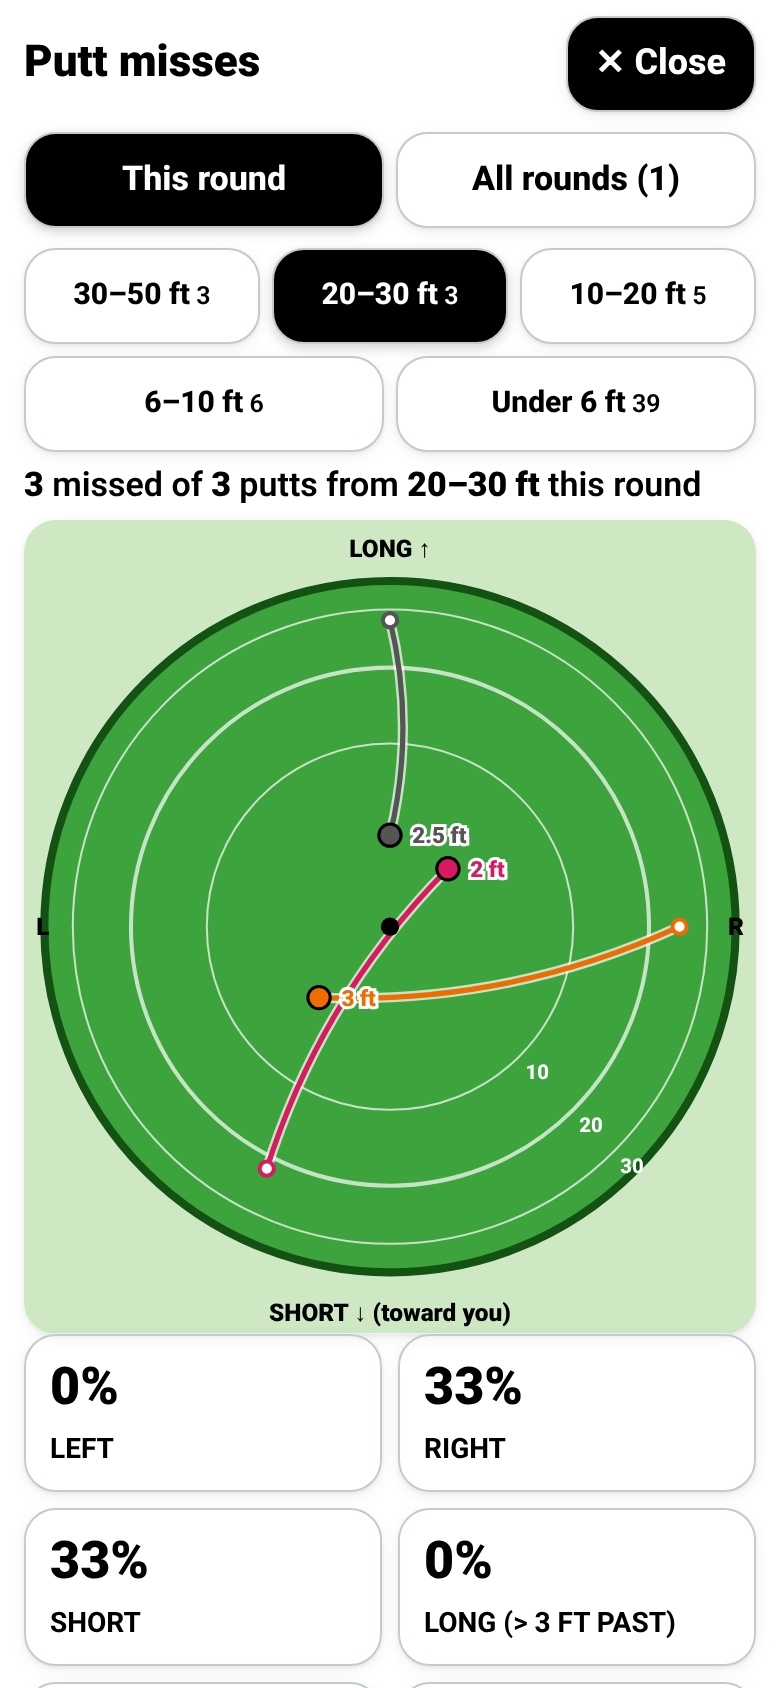
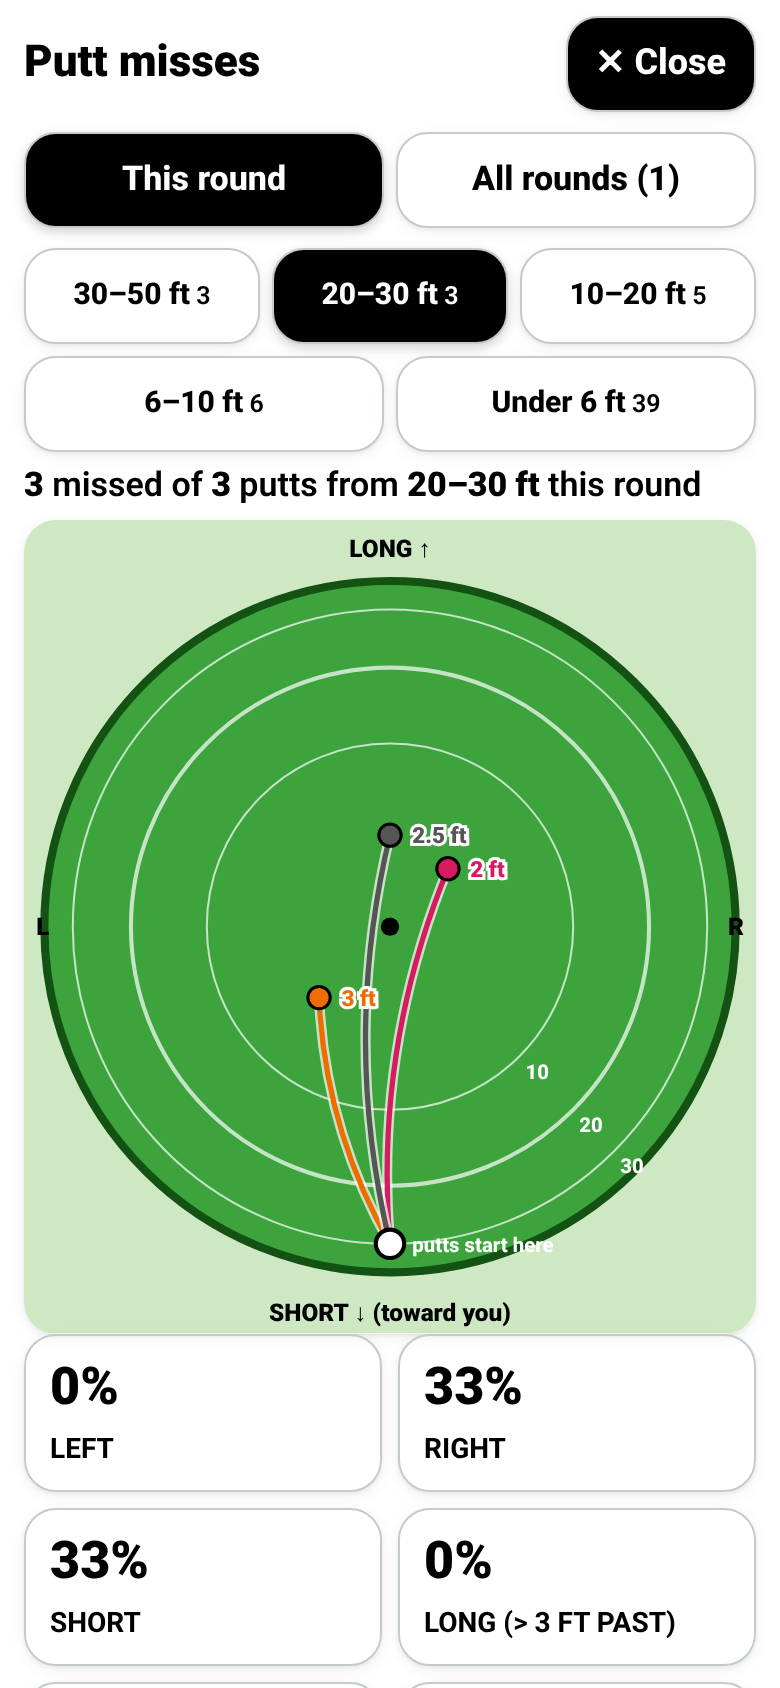
v41: putt-miss maps - all putts from one common start below the hole

diff --git a/app.js b/app.js
@@ -1155,21 +1155,19 @@
     var misses = list.filter(function (p) { return !p.made; }), pend = [];
     misses.forEach(function (p, i) {
       var cls = SG.pmissClass(p), col = PMC[cls];
-      var sa = p.dir ? SG.DIR_ANGLE[p.dir] : 270 + ((ns++ % 7) - 3) * 9, sk = (p.dir || 'n') + Math.round(p.ft), js = seenS[sk] = (seenS[sk] || 0) + 1;
-      var s = pt(cx, cy, rad(p.ft), sa + (js - 1) * 5);
+      var s = [cx, cy + RR]; // every putt starts from one spot straight below the hole (the hole is the target)
       var ea = p.endDir ? SG.DIR_ANGLE[p.endDir] : 90, clamped = p.endFt > maxFt, ek = (p.endDir || 'n') + Math.round(p.endFt * 2), je = seenE[ek] = (seenE[ek] || 0) + 1;
       var e = pt(cx, cy, Math.max(rad(p.endFt), 9), ea + (je - 1) * 9);
       var mx = (s[0] + e[0]) / 2 + (e[1] - s[1]) * 0.12, my = (s[1] + e[1]) / 2 - (e[0] - s[0]) * 0.12;
       tr += '<path class="pmtr" data-class="' + cls + '" d="M' + f1(s[0]) + ' ' + f1(s[1]) + ' Q' + f1(mx) + ' ' + f1(my) + ' ' + f1(e[0]) + ' ' + f1(e[1]) + '" fill="none" stroke="#fff" stroke-width="5" stroke-opacity=".7"/>' +
         '<path d="M' + f1(s[0]) + ' ' + f1(s[1]) + ' Q' + f1(mx) + ' ' + f1(my) + ' ' + f1(e[0]) + ' ' + f1(e[1]) + '" fill="none" stroke="' + col + '" stroke-width="2.6"/>';
-      dots += '<circle cx="' + f1(s[0]) + '" cy="' + f1(s[1]) + '" r="3.5" fill="#fff" stroke="' + col + '" stroke-width="2"/>';
       dots += cls === 'nodir' ? '<g class="pmend" data-class="nodir"><path d="M' + f1(e[0]) + ' ' + f1(e[1] - 8) + ' l8 8 -8 8 -8 -8z" fill="#fff" stroke="#555" stroke-width="2"/><text x="' + f1(e[0]) + '" y="' + f1(e[1] + 4) + '" text-anchor="middle" font-size="10" font-weight="900">?</text></g>'
         : '<circle class="pmend" data-class="' + cls + '" cx="' + f1(e[0]) + '" cy="' + f1(e[1]) + '" r="5.5" fill="' + col + '" stroke="#000" stroke-width="1.5"/>';
       boxes.push([e[0] - 6, e[1] - 6, e[0] + 6, e[1] + 6]);
       pend.push([e[0], e[1], (Math.round(p.endFt * 10) / 10) + ' ft' + (clamped ? ' ›' : ''), col]);
     });
     pend.forEach(function (q) { labs += lbl(q[0], q[1], q[2], q[3] === '#888' ? '#333' : q[3]); });
-    return o + tr + '<circle cx="' + cx + '" cy="' + cy + '" r="4.5" fill="#000"/>' + dots + labs + '</svg>';
+    return o + tr + '<circle cx="' + cx + '" cy="' + cy + '" r="4.5" fill="#000"/><circle id="pmorigin" cx="' + cx + '" cy="' + (cy + RR) + '" r="7" fill="#fff" stroke="#000" stroke-width="2"/><text x="' + (cx + 11) + '" y="' + (cy + RR + 4) + '" font-size="10" font-weight="800" fill="#fff">putts start here</text>' + dots + labs + '</svg>';
   }
   function pmissCells(st) {
     var pc = function (k) { return st.misses ? Math.round(st.pct[k]) + '%' : '–'; };
@@ -1179,7 +1177,7 @@
   function pmissLegend() {
     return '<div class="legend" id="pmlegend">' + ['left', 'right', 'short', 'long', 'nearlong'].map(function (k) { return '<span><i class="ln" style="background:' + PMC[k] + '"></i><i class="dot" style="background:' + PMC[k] + '"></i>' + PMN[k] + '</span>'; }).join('') +
       '<span><svg width="20" height="20" viewBox="0 0 20 20" style="flex:none"><path d="M10 2 l8 8 -8 8 -8 -8z" fill="#fff" stroke="#555" stroke-width="2"/><text x="10" y="14" text-anchor="middle" font-size="10" font-weight="900">?</text></svg>No direction entered for where it finished (drawn long)</span>' +
-      '<span><i class="dot" style="background:#fff"></i>Where the putt started (its distance and side of the hole)</span>' +
+      '<span><i class="dot" style="background:#fff"></i>Common start point: every putt is drawn from straight below the hole, so the hole is the target</span>' +
       '<span>Label = feet left to the hole (› = further than the picture, drawn at the edge). Rings = feet from the hole (square-root scale, so short leftovers are easy to see).</span></div>';
   }
   function pmissHTML(all) {
@@ -1188,7 +1186,7 @@
       return '<button data-act="pmg" data-v="' + g.id + '" data-n="' + c + '" class="' + (g.id === D.group ? 'sel' : '') + '"' + (c ? '' : ' disabled') + ' aria-pressed="' + (g.id === D.group) + '">' + g.name + (c ? '<small> ' + c + '</small>' : '') + '</button>'; }).join('') + '</div>';
     return btns + '<p class="mapsum" id="mapsum"><b>' + D.stats.misses + '</b> missed of <b>' + D.stats.attempts + '</b> putts from <b id="pmsel">' + G.name + '</b>' + (all ? ' in ' + D.rounds + ' round' + (D.rounds === 1 ? '' : 's') : ' this round') + '</p>' +
       pmissSVG(D.list, D.group) + pmissCells(D.stats) + pmissLegend() +
-      '<p class="help muted">Where each missed putt finished, from the direction and distance of the next putt. Short = finished short (incl. short left/right). Long = finished long and more than 3 ft past the hole. Long left/right within 3 ft count as Left/Right; straight long within 3 ft = "just long" (good speed, not counted as Long). Percentages are of misses. Groups: under 6, 6 to under 10, 10 to under 20, 20 to under 30, 30 to 50 ft.</p>';
+      '<p class="help muted">Each line runs from one common start (below the hole) to where the putt finished, placed around the hole by the direction and distance of the next putt: short = below the hole, long = above, left/right to the sides. Short = finished short (incl. short left/right). Long = finished long and more than 3 ft past the hole. Long left/right within 3 ft count as Left/Right; straight long within 3 ft = "just long" (good speed, not counted as Long). Percentages are of misses. Groups: under 6, 6 to under 10, 10 to under 20, 20 to under 30, 30 to 50 ft.</p>';
   }
   function puttTile(S) {
     var P1 = SG.puttStats(S.puttList.filter(function (p) { return p.n === 1; }));

diff --git a/tests/pmiss-focused.js b/tests/pmiss-focused.js
@@ -32,6 +32,8 @@ const BASE = process.env.BASE_URL || 'http://127.0.0.1:8770/', OUT = '/workspace
     const nMiss = await page.locator('#pmissmap .pmend').count(), cells = await page.$$eval('#pmcells .stat', s => s.map(x => x.textContent));
     const exp = await page.evaluate(g => { const L = SG.summarize(window.__golf.rounds()[0], 'pga').puttList.filter(p => SG.pmissGroup(p.ft) === g); return SG.pmissStats(L); }, c[0]);
     assert.strictEqual(nMiss, exp.misses); assert.ok(cells.some(t => t.includes(exp.made + ' / ' + exp.attempts)));
+    const starts = await page.$$eval('#pmissmap path.pmtr', ps => [...new Set(ps.map(p => p.getAttribute('d').split(' Q')[0]))]); assert.ok(starts.length <= 1, 'one common start ' + starts);
+    if (exp.counts.short) { const sh = await page.$$eval('#pmissmap .pmend[data-class="short"]', e => e.map(x => +x.getAttribute('cy'))); assert.ok(sh.every(y => y > 200), 'short ends below the hole'); }
     const lab = await page.locator('#pmissmap .pmlbl').count(); assert.ok(lab >= Math.min(1, exp.misses));
     const f = OUT + 'putt-miss-' + c[0] + '.png'; await page.locator('#mapview').evaluate(e => e.scrollTop = 0); await page.screenshot({ path: f }); shots.push(f);
   }

diff --git a/sw.js b/sw.js
@@ -1,5 +1,5 @@
 // Offline support: cache the whole app on install, serve cache-first.
-const CACHE = 'golf-sg-v40';
+const CACHE = 'golf-sg-v41';
 const ASSETS = ['./', './index.html', './styles.css', './sg.js', './app.js', './config.js', './onedrive.js', './vendor/msal-browser.min.js', './vendor/jspdf.umd.min.js',
   './manifest.webmanifest', './icons/apple-touch-icon.png', './icons/icon-192.png',
   './icons/icon-512.png', './icons/icon-512-maskable.png'];
